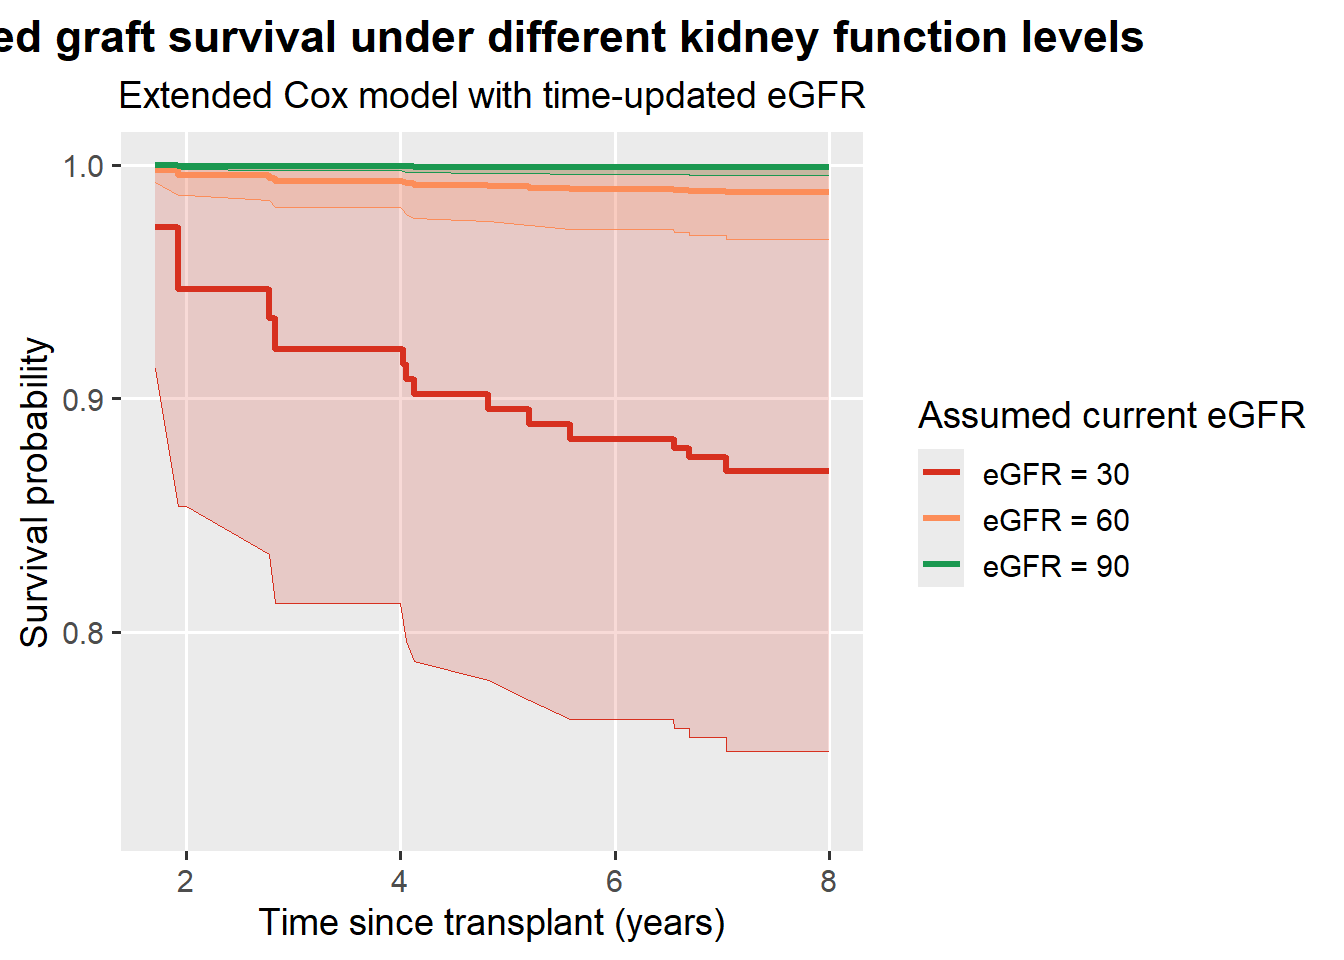
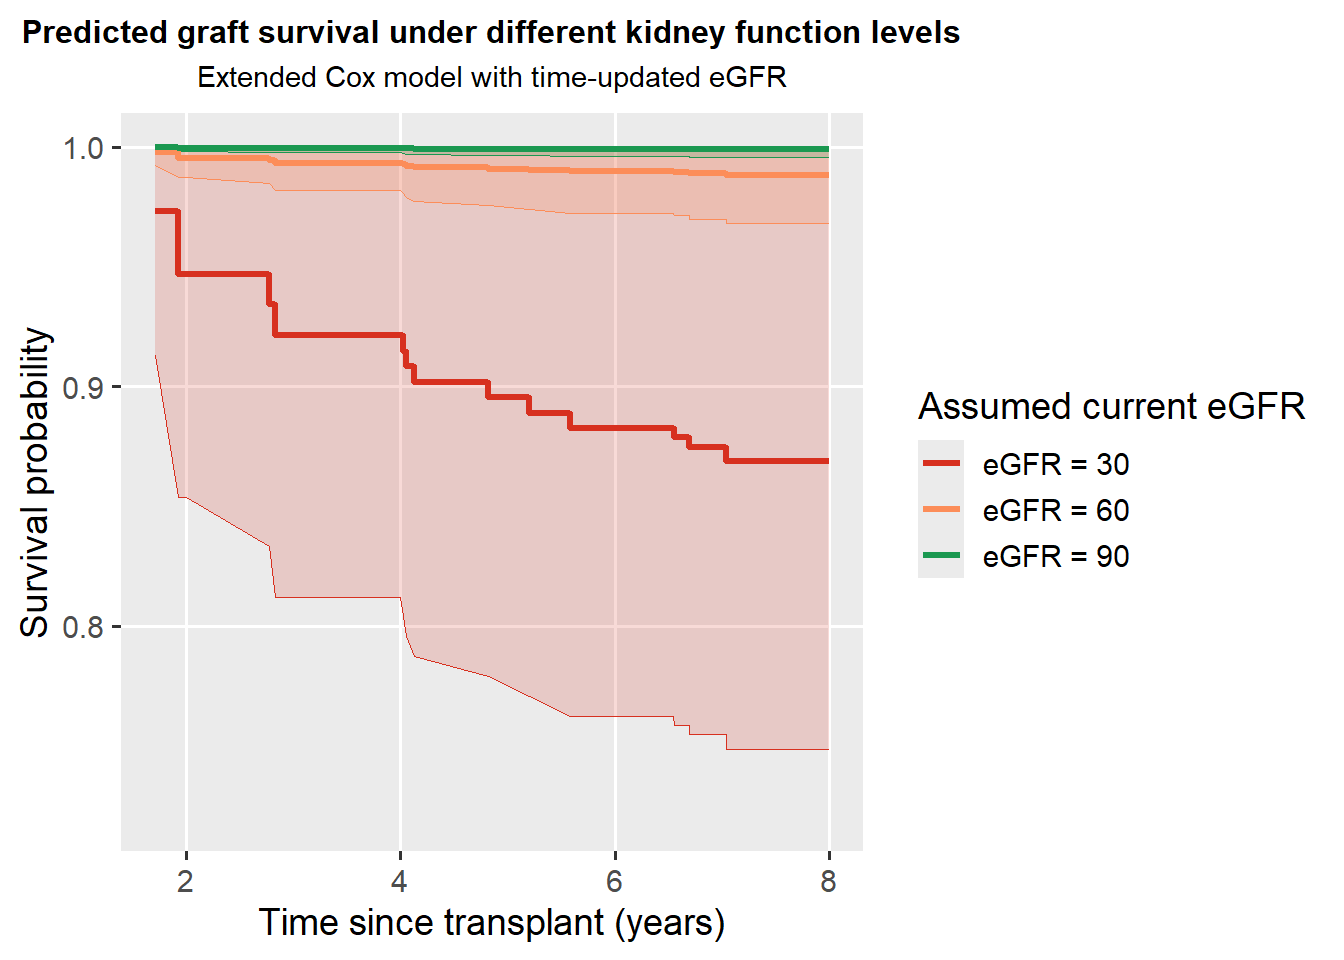
Complete Lecture 3

diff --git a/docs/lecture-03-non-ph-cox.html b/docs/lecture-03-non-ph-cox.html
@@ -1425,7 +1425,21 @@ Accounting for changes in kidney function over time substantially alters the int
 <span id="cb14-97"><a href="#cb14-97" aria-hidden="true" tabindex="-1"></a>    <span class="at">plot.subtitle =</span> <span class="fu">element_text</span>(<span class="at">hjust =</span> <span class="fl">0.5</span>),</span>
 <span id="cb14-98"><a href="#cb14-98" aria-hidden="true" tabindex="-1"></a>    <span class="at">legend.position =</span> <span class="st">"right"</span>,</span>
 <span id="cb14-99"><a href="#cb14-99" aria-hidden="true" tabindex="-1"></a>    <span class="at">panel.grid.minor =</span> <span class="fu">element_blank</span>()</span>
-<span id="cb14-100"><a href="#cb14-100" aria-hidden="true" tabindex="-1"></a>  )</span></code><button title="Copy to Clipboard" class="code-copy-button"><i class="bi"></i></button></pre></div>
+<span id="cb14-100"><a href="#cb14-100" aria-hidden="true" tabindex="-1"></a>  )<span class="sc">+</span> <span class="fu">theme</span>(</span>
+<span id="cb14-101"><a href="#cb14-101" aria-hidden="true" tabindex="-1"></a>    <span class="at">plot.title =</span> <span class="fu">element_text</span>(</span>
+<span id="cb14-102"><a href="#cb14-102" aria-hidden="true" tabindex="-1"></a>      <span class="at">face =</span> <span class="st">"bold"</span>,</span>
+<span id="cb14-103"><a href="#cb14-103" aria-hidden="true" tabindex="-1"></a>      <span class="at">size =</span> <span class="dv">12</span>,</span>
+<span id="cb14-104"><a href="#cb14-104" aria-hidden="true" tabindex="-1"></a>      <span class="at">hjust =</span> <span class="fl">0.5</span>,</span>
+<span id="cb14-105"><a href="#cb14-105" aria-hidden="true" tabindex="-1"></a>      <span class="at">margin =</span> <span class="fu">margin</span>(<span class="at">b =</span> <span class="dv">6</span>)   <span class="co"># space below title</span></span>
+<span id="cb14-106"><a href="#cb14-106" aria-hidden="true" tabindex="-1"></a>    ),</span>
+<span id="cb14-107"><a href="#cb14-107" aria-hidden="true" tabindex="-1"></a>    <span class="at">plot.subtitle =</span> <span class="fu">element_text</span>(</span>
+<span id="cb14-108"><a href="#cb14-108" aria-hidden="true" tabindex="-1"></a>      <span class="at">size =</span> <span class="dv">11</span>,</span>
+<span id="cb14-109"><a href="#cb14-109" aria-hidden="true" tabindex="-1"></a>      <span class="at">hjust =</span> <span class="fl">0.5</span>,</span>
+<span id="cb14-110"><a href="#cb14-110" aria-hidden="true" tabindex="-1"></a>      <span class="at">margin =</span> <span class="fu">margin</span>(<span class="at">b =</span> <span class="dv">8</span>)</span>
+<span id="cb14-111"><a href="#cb14-111" aria-hidden="true" tabindex="-1"></a>    ),</span>
+<span id="cb14-112"><a href="#cb14-112" aria-hidden="true" tabindex="-1"></a>    <span class="at">legend.position =</span> <span class="st">"right"</span>,</span>
+<span id="cb14-113"><a href="#cb14-113" aria-hidden="true" tabindex="-1"></a>    <span class="at">panel.grid.minor =</span> <span class="fu">element_blank</span>()</span>
+<span id="cb14-114"><a href="#cb14-114" aria-hidden="true" tabindex="-1"></a>  )</span></code><button title="Copy to Clipboard" class="code-copy-button"><i class="bi"></i></button></pre></div>
 </details>
 <div class="cell-output-display">
 <div>
@@ -1476,8 +1490,14 @@ Warning
 </div>
 <div class="callout-body-container callout-body">
 <p>The extended Cox model treats time-varying covariates as <strong>external</strong>.</p>
-<p>If the covariate is influenced by the underlying disease process (e.g.&nbsp;declining eGFR because the graft is failing), this assumption may be violated — motivating <strong>joint models</strong>.</p>
+<p>If the covariate is influenced by the underlying disease process (e.g.&nbsp;declining eGFR because the graft is failing), this assumption may be violated.</p>
 </div>
+</div>
+<div class="callout-question">
+<p><strong>Think about the following before moving on:</strong></p>
+<p>What if the decline in eGFR over time reflects underlying changes in other clinical factors, rather than acting as an isolated predictor?</p>
+<p>And those same variables may also affect the risk of graft failure.</p>
+<p>If a time-dependent covariate both <strong>predicts</strong> the event and is <strong>affected by</strong> the underlying disease process, is an extended Cox model still appropriate?</p>
 </div>
 
 
@@ -3013,54 +3033,84 @@ window.document.addEventListener("DOMContentLoaded", function (event) {
 <span id="cb15-1054"><a href="#cb15-1054" aria-hidden="true" tabindex="-1"></a><span class="in">    plot.subtitle = element_text(hjust = 0.5),</span></span>
 <span id="cb15-1055"><a href="#cb15-1055" aria-hidden="true" tabindex="-1"></a><span class="in">    legend.position = "right",</span></span>
 <span id="cb15-1056"><a href="#cb15-1056" aria-hidden="true" tabindex="-1"></a><span class="in">    panel.grid.minor = element_blank()</span></span>
-<span id="cb15-1057"><a href="#cb15-1057" aria-hidden="true" tabindex="-1"></a><span class="in">  )</span></span>
-<span id="cb15-1058"><a href="#cb15-1058" aria-hidden="true" tabindex="-1"></a></span>
-<span id="cb15-1059"><a href="#cb15-1059" aria-hidden="true" tabindex="-1"></a></span>
-<span id="cb15-1060"><a href="#cb15-1060" aria-hidden="true" tabindex="-1"></a><span class="in">```</span></span>
-<span id="cb15-1061"><a href="#cb15-1061" aria-hidden="true" tabindex="-1"></a></span>
-<span id="cb15-1062"><a href="#cb15-1062" aria-hidden="true" tabindex="-1"></a>::: {.callout-tip}</span>
-<span id="cb15-1063"><a href="#cb15-1063" aria-hidden="true" tabindex="-1"></a><span class="fu">### Interpretation of Predicted Survival by Current eGFR Level</span></span>
-<span id="cb15-1064"><a href="#cb15-1064" aria-hidden="true" tabindex="-1"></a></span>
-<span id="cb15-1065"><a href="#cb15-1065" aria-hidden="true" tabindex="-1"></a>The extended Cox model allows us to interpret graft survival **conditional on the current level of kidney function**, updated over time.</span>
-<span id="cb15-1066"><a href="#cb15-1066" aria-hidden="true" tabindex="-1"></a></span>
-<span id="cb15-1067"><a href="#cb15-1067" aria-hidden="true" tabindex="-1"></a>---</span>
-<span id="cb15-1068"><a href="#cb15-1068" aria-hidden="true" tabindex="-1"></a></span>
-<span id="cb15-1069"><a href="#cb15-1069" aria-hidden="true" tabindex="-1"></a>✅ **eGFR = 90 (green)**</span>
-<span id="cb15-1070"><a href="#cb15-1070" aria-hidden="true" tabindex="-1"></a></span>
-<span id="cb15-1071"><a href="#cb15-1071" aria-hidden="true" tabindex="-1"></a>Predicted graft survival is **very stable over time**.  </span>
-<span id="cb15-1072"><a href="#cb15-1072" aria-hidden="true" tabindex="-1"></a>The survival curve remains close to **1.0**, indicating that patients maintaining this level of kidney function have a **very low risk of graft failure** throughout follow-up.</span>
+<span id="cb15-1057"><a href="#cb15-1057" aria-hidden="true" tabindex="-1"></a><span class="in">  )+ theme(</span></span>
+<span id="cb15-1058"><a href="#cb15-1058" aria-hidden="true" tabindex="-1"></a><span class="in">    plot.title = element_text(</span></span>
+<span id="cb15-1059"><a href="#cb15-1059" aria-hidden="true" tabindex="-1"></a><span class="in">      face = "bold",</span></span>
+<span id="cb15-1060"><a href="#cb15-1060" aria-hidden="true" tabindex="-1"></a><span class="in">      size = 12,</span></span>
+<span id="cb15-1061"><a href="#cb15-1061" aria-hidden="true" tabindex="-1"></a><span class="in">      hjust = 0.5,</span></span>
+<span id="cb15-1062"><a href="#cb15-1062" aria-hidden="true" tabindex="-1"></a><span class="in">      margin = margin(b = 6)   # space below title</span></span>
+<span id="cb15-1063"><a href="#cb15-1063" aria-hidden="true" tabindex="-1"></a><span class="in">    ),</span></span>
+<span id="cb15-1064"><a href="#cb15-1064" aria-hidden="true" tabindex="-1"></a><span class="in">    plot.subtitle = element_text(</span></span>
+<span id="cb15-1065"><a href="#cb15-1065" aria-hidden="true" tabindex="-1"></a><span class="in">      size = 11,</span></span>
+<span id="cb15-1066"><a href="#cb15-1066" aria-hidden="true" tabindex="-1"></a><span class="in">      hjust = 0.5,</span></span>
+<span id="cb15-1067"><a href="#cb15-1067" aria-hidden="true" tabindex="-1"></a><span class="in">      margin = margin(b = 8)</span></span>
+<span id="cb15-1068"><a href="#cb15-1068" aria-hidden="true" tabindex="-1"></a><span class="in">    ),</span></span>
+<span id="cb15-1069"><a href="#cb15-1069" aria-hidden="true" tabindex="-1"></a><span class="in">    legend.position = "right",</span></span>
+<span id="cb15-1070"><a href="#cb15-1070" aria-hidden="true" tabindex="-1"></a><span class="in">    panel.grid.minor = element_blank()</span></span>
+<span id="cb15-1071"><a href="#cb15-1071" aria-hidden="true" tabindex="-1"></a><span class="in">  )</span></span>
+<span id="cb15-1072"><a href="#cb15-1072" aria-hidden="true" tabindex="-1"></a></span>
 <span id="cb15-1073"><a href="#cb15-1073" aria-hidden="true" tabindex="-1"></a></span>
-<span id="cb15-1074"><a href="#cb15-1074" aria-hidden="true" tabindex="-1"></a>---</span>
+<span id="cb15-1074"><a href="#cb15-1074" aria-hidden="true" tabindex="-1"></a><span class="in">```</span></span>
 <span id="cb15-1075"><a href="#cb15-1075" aria-hidden="true" tabindex="-1"></a></span>
-<span id="cb15-1076"><a href="#cb15-1076" aria-hidden="true" tabindex="-1"></a>✅ **eGFR = 60 (orange)**</span>
-<span id="cb15-1077"><a href="#cb15-1077" aria-hidden="true" tabindex="-1"></a></span>
-<span id="cb15-1078"><a href="#cb15-1078" aria-hidden="true" tabindex="-1"></a>Graft survival remains **high**, although slightly lower than at eGFR = 90.  </span>
-<span id="cb15-1079"><a href="#cb15-1079" aria-hidden="true" tabindex="-1"></a>The probability of graft survival stays above **95% over 8 years**, suggesting a **modest increase in risk**, but overall good long-term outcomes.</span>
+<span id="cb15-1076"><a href="#cb15-1076" aria-hidden="true" tabindex="-1"></a>::: {.callout-tip}</span>
+<span id="cb15-1077"><a href="#cb15-1077" aria-hidden="true" tabindex="-1"></a><span class="fu">### Interpretation of Predicted Survival by Current eGFR Level</span></span>
+<span id="cb15-1078"><a href="#cb15-1078" aria-hidden="true" tabindex="-1"></a></span>
+<span id="cb15-1079"><a href="#cb15-1079" aria-hidden="true" tabindex="-1"></a>The extended Cox model allows us to interpret graft survival **conditional on the current level of kidney function**, updated over time.</span>
 <span id="cb15-1080"><a href="#cb15-1080" aria-hidden="true" tabindex="-1"></a></span>
 <span id="cb15-1081"><a href="#cb15-1081" aria-hidden="true" tabindex="-1"></a>---</span>
 <span id="cb15-1082"><a href="#cb15-1082" aria-hidden="true" tabindex="-1"></a></span>
-<span id="cb15-1083"><a href="#cb15-1083" aria-hidden="true" tabindex="-1"></a>✅ **eGFR = 30 (red)**</span>
+<span id="cb15-1083"><a href="#cb15-1083" aria-hidden="true" tabindex="-1"></a>✅ **eGFR = 90 (green)**</span>
 <span id="cb15-1084"><a href="#cb15-1084" aria-hidden="true" tabindex="-1"></a></span>
-<span id="cb15-1085"><a href="#cb15-1085" aria-hidden="true" tabindex="-1"></a>Graft survival is **markedly reduced**.  </span>
-<span id="cb15-1086"><a href="#cb15-1086" aria-hidden="true" tabindex="-1"></a>The survival curve declines more steeply, showing a **pronounced increase in the risk of graft loss over time**.  </span>
-<span id="cb15-1087"><a href="#cb15-1087" aria-hidden="true" tabindex="-1"></a>This highlights low current eGFR as a **strong indicator of poor prognosis**.</span>
-<span id="cb15-1088"><a href="#cb15-1088" aria-hidden="true" tabindex="-1"></a></span>
-<span id="cb15-1089"><a href="#cb15-1089" aria-hidden="true" tabindex="-1"></a>---</span>
-<span id="cb15-1090"><a href="#cb15-1090" aria-hidden="true" tabindex="-1"></a></span>
-<span id="cb15-1091"><a href="#cb15-1091" aria-hidden="true" tabindex="-1"></a>**Overall interpretation:**  </span>
-<span id="cb15-1092"><a href="#cb15-1092" aria-hidden="true" tabindex="-1"></a>In the extended Cox model, **current eGFR is a powerful, time-updated predictor of graft survival**.  </span>
-<span id="cb15-1093"><a href="#cb15-1093" aria-hidden="true" tabindex="-1"></a>Lower eGFR values are associated with **substantially worse survival trajectories**, reinforcing the importance of modelling kidney function as a **time-varying covariate** rather than a baseline-only measure.</span>
-<span id="cb15-1094"><a href="#cb15-1094" aria-hidden="true" tabindex="-1"></a>:::</span>
-<span id="cb15-1095"><a href="#cb15-1095" aria-hidden="true" tabindex="-1"></a></span>
+<span id="cb15-1085"><a href="#cb15-1085" aria-hidden="true" tabindex="-1"></a>Predicted graft survival is **very stable over time**.  </span>
+<span id="cb15-1086"><a href="#cb15-1086" aria-hidden="true" tabindex="-1"></a>The survival curve remains close to **1.0**, indicating that patients maintaining this level of kidney function have a **very low risk of graft failure** throughout follow-up.</span>
+<span id="cb15-1087"><a href="#cb15-1087" aria-hidden="true" tabindex="-1"></a></span>
+<span id="cb15-1088"><a href="#cb15-1088" aria-hidden="true" tabindex="-1"></a>---</span>
+<span id="cb15-1089"><a href="#cb15-1089" aria-hidden="true" tabindex="-1"></a></span>
+<span id="cb15-1090"><a href="#cb15-1090" aria-hidden="true" tabindex="-1"></a>✅ **eGFR = 60 (orange)**</span>
+<span id="cb15-1091"><a href="#cb15-1091" aria-hidden="true" tabindex="-1"></a></span>
+<span id="cb15-1092"><a href="#cb15-1092" aria-hidden="true" tabindex="-1"></a>Graft survival remains **high**, although slightly lower than at eGFR = 90.  </span>
+<span id="cb15-1093"><a href="#cb15-1093" aria-hidden="true" tabindex="-1"></a>The probability of graft survival stays above **95% over 8 years**, suggesting a **modest increase in risk**, but overall good long-term outcomes.</span>
+<span id="cb15-1094"><a href="#cb15-1094" aria-hidden="true" tabindex="-1"></a></span>
+<span id="cb15-1095"><a href="#cb15-1095" aria-hidden="true" tabindex="-1"></a>---</span>
 <span id="cb15-1096"><a href="#cb15-1096" aria-hidden="true" tabindex="-1"></a></span>
-<span id="cb15-1097"><a href="#cb15-1097" aria-hidden="true" tabindex="-1"></a></span>
-<span id="cb15-1098"><a href="#cb15-1098" aria-hidden="true" tabindex="-1"></a>::: {.callout-warning}</span>
-<span id="cb15-1099"><a href="#cb15-1099" aria-hidden="true" tabindex="-1"></a>The extended Cox model treats time-varying covariates as **external**.</span>
-<span id="cb15-1100"><a href="#cb15-1100" aria-hidden="true" tabindex="-1"></a></span>
-<span id="cb15-1101"><a href="#cb15-1101" aria-hidden="true" tabindex="-1"></a>If the covariate is influenced by the underlying disease process</span>
-<span id="cb15-1102"><a href="#cb15-1102" aria-hidden="true" tabindex="-1"></a>(e.g. declining eGFR because the graft is failing),</span>
-<span id="cb15-1103"><a href="#cb15-1103" aria-hidden="true" tabindex="-1"></a>this assumption may be violated — motivating **joint models**.</span>
-<span id="cb15-1104"><a href="#cb15-1104" aria-hidden="true" tabindex="-1"></a>:::</span></code><button title="Copy to Clipboard" class="code-copy-button" data-in-quarto-modal=""><i class="bi"></i></button></pre></div>
+<span id="cb15-1097"><a href="#cb15-1097" aria-hidden="true" tabindex="-1"></a>✅ **eGFR = 30 (red)**</span>
+<span id="cb15-1098"><a href="#cb15-1098" aria-hidden="true" tabindex="-1"></a></span>
+<span id="cb15-1099"><a href="#cb15-1099" aria-hidden="true" tabindex="-1"></a>Graft survival is **markedly reduced**.  </span>
+<span id="cb15-1100"><a href="#cb15-1100" aria-hidden="true" tabindex="-1"></a>The survival curve declines more steeply, showing a **pronounced increase in the risk of graft loss over time**.  </span>
+<span id="cb15-1101"><a href="#cb15-1101" aria-hidden="true" tabindex="-1"></a>This highlights low current eGFR as a **strong indicator of poor prognosis**.</span>
+<span id="cb15-1102"><a href="#cb15-1102" aria-hidden="true" tabindex="-1"></a></span>
+<span id="cb15-1103"><a href="#cb15-1103" aria-hidden="true" tabindex="-1"></a>---</span>
+<span id="cb15-1104"><a href="#cb15-1104" aria-hidden="true" tabindex="-1"></a></span>
+<span id="cb15-1105"><a href="#cb15-1105" aria-hidden="true" tabindex="-1"></a>**Overall interpretation:**  </span>
+<span id="cb15-1106"><a href="#cb15-1106" aria-hidden="true" tabindex="-1"></a>In the extended Cox model, **current eGFR is a powerful, time-updated predictor of graft survival**.  </span>
+<span id="cb15-1107"><a href="#cb15-1107" aria-hidden="true" tabindex="-1"></a>Lower eGFR values are associated with **substantially worse survival trajectories**, reinforcing the importance of modelling kidney function as a **time-varying covariate** rather than a baseline-only measure.</span>
+<span id="cb15-1108"><a href="#cb15-1108" aria-hidden="true" tabindex="-1"></a>:::</span>
+<span id="cb15-1109"><a href="#cb15-1109" aria-hidden="true" tabindex="-1"></a></span>
+<span id="cb15-1110"><a href="#cb15-1110" aria-hidden="true" tabindex="-1"></a></span>
+<span id="cb15-1111"><a href="#cb15-1111" aria-hidden="true" tabindex="-1"></a></span>
+<span id="cb15-1112"><a href="#cb15-1112" aria-hidden="true" tabindex="-1"></a>::: {.callout-warning}</span>
+<span id="cb15-1113"><a href="#cb15-1113" aria-hidden="true" tabindex="-1"></a>The extended Cox model treats time-varying covariates as **external**.</span>
+<span id="cb15-1114"><a href="#cb15-1114" aria-hidden="true" tabindex="-1"></a></span>
+<span id="cb15-1115"><a href="#cb15-1115" aria-hidden="true" tabindex="-1"></a>If the covariate is influenced by the underlying disease process</span>
+<span id="cb15-1116"><a href="#cb15-1116" aria-hidden="true" tabindex="-1"></a>(e.g. declining eGFR because the graft is failing),</span>
+<span id="cb15-1117"><a href="#cb15-1117" aria-hidden="true" tabindex="-1"></a>this assumption may be violated.</span>
+<span id="cb15-1118"><a href="#cb15-1118" aria-hidden="true" tabindex="-1"></a>:::</span>
+<span id="cb15-1119"><a href="#cb15-1119" aria-hidden="true" tabindex="-1"></a></span>
+<span id="cb15-1120"><a href="#cb15-1120" aria-hidden="true" tabindex="-1"></a></span>
+<span id="cb15-1121"><a href="#cb15-1121" aria-hidden="true" tabindex="-1"></a></span>
+<span id="cb15-1122"><a href="#cb15-1122" aria-hidden="true" tabindex="-1"></a></span>
+<span id="cb15-1123"><a href="#cb15-1123" aria-hidden="true" tabindex="-1"></a>::: {.callout-question}</span>
+<span id="cb15-1124"><a href="#cb15-1124" aria-hidden="true" tabindex="-1"></a></span>
+<span id="cb15-1125"><a href="#cb15-1125" aria-hidden="true" tabindex="-1"></a>**Think about the following before moving on:**</span>
+<span id="cb15-1126"><a href="#cb15-1126" aria-hidden="true" tabindex="-1"></a></span>
+<span id="cb15-1127"><a href="#cb15-1127" aria-hidden="true" tabindex="-1"></a>What if the decline in eGFR over time reflects underlying changes in other clinical factors, rather than acting as an isolated predictor?</span>
+<span id="cb15-1128"><a href="#cb15-1128" aria-hidden="true" tabindex="-1"></a></span>
+<span id="cb15-1129"><a href="#cb15-1129" aria-hidden="true" tabindex="-1"></a>And those same variables may also affect the risk of graft failure.</span>
+<span id="cb15-1130"><a href="#cb15-1130" aria-hidden="true" tabindex="-1"></a></span>
+<span id="cb15-1131"><a href="#cb15-1131" aria-hidden="true" tabindex="-1"></a></span>
+<span id="cb15-1132"><a href="#cb15-1132" aria-hidden="true" tabindex="-1"></a>If a time-dependent covariate both **predicts** the event and is **affected by** the underlying disease process, is an extended Cox model still appropriate?</span>
+<span id="cb15-1133"><a href="#cb15-1133" aria-hidden="true" tabindex="-1"></a></span>
+<span id="cb15-1134"><a href="#cb15-1134" aria-hidden="true" tabindex="-1"></a>:::</span></code><button title="Copy to Clipboard" class="code-copy-button" data-in-quarto-modal=""><i class="bi"></i></button></pre></div>
 </div></div></div></div></div>
 </div> <!-- /content -->
 

diff --git a/docs/index.html b/docs/index.html
@@ -203,7 +203,11 @@ pre > code.sourceCode > span > a:first-child::before { text-decoration: underlin
 </header>
 
 
-<p>Welcome! This workshop contains 5 lectures on survival analysis.</p>
+<p>Welcome!</p>
+<p>This workshop covers a series of lectures on <strong>survival analysis</strong>.</p>
+<p>We begin with an introduction to <strong>survival data</strong> and basic survival analysis, followed by the <strong>Cox proportional hazards model</strong>. We then explore <strong>extensions of the Cox model</strong> when the proportional hazards assumption is violated, as well as <strong>joint models</strong> and <strong>nonlinear Cox models</strong>.</p>
+<p>All lectures are prepared by <strong>Dr Farzaneh Boroumand</strong> (Farzaneh.Boroumand@sydney.edu.au).</p>
+<p>The datasets used in this workshop are <strong>simulated datasets</strong>, created solely for <strong>educational purposes</strong>.</p>
 <div class="callout callout-style-default callout-note callout-titled">
 <div class="callout-header d-flex align-content-center">
 <div class="callout-icon-container">
@@ -707,18 +711,30 @@ window.document.addEventListener("DOMContentLoaded", function (event) {
 <span id="cb1-2"><a href="#cb1-2" aria-hidden="true" tabindex="-1"></a><span class="an">title:</span><span class="co"> "Advanced Survival Concepts and Analysis"</span></span>
 <span id="cb1-3"><a href="#cb1-3" aria-hidden="true" tabindex="-1"></a><span class="co">---</span></span>
 <span id="cb1-4"><a href="#cb1-4" aria-hidden="true" tabindex="-1"></a></span>
-<span id="cb1-5"><a href="#cb1-5" aria-hidden="true" tabindex="-1"></a>Welcome! This workshop contains 5 lectures on survival analysis.</span>
+<span id="cb1-5"><a href="#cb1-5" aria-hidden="true" tabindex="-1"></a></span>
 <span id="cb1-6"><a href="#cb1-6" aria-hidden="true" tabindex="-1"></a></span>
-<span id="cb1-7"><a href="#cb1-7" aria-hidden="true" tabindex="-1"></a>::: callout-note</span>
-<span id="cb1-8"><a href="#cb1-8" aria-hidden="true" tabindex="-1"></a><span class="fu">### How to use this website</span></span>
-<span id="cb1-9"><a href="#cb1-9" aria-hidden="true" tabindex="-1"></a></span>
-<span id="cb1-10"><a href="#cb1-10" aria-hidden="true" tabindex="-1"></a><span class="ss">-   </span>Click **Lecture 1–5** in the sidebar.</span>
-<span id="cb1-11"><a href="#cb1-11" aria-hidden="true" tabindex="-1"></a><span class="ss">-   </span>Each lecture contains:</span>
-<span id="cb1-12"><a href="#cb1-12" aria-hidden="true" tabindex="-1"></a><span class="ss">    -   </span>explanation</span>
-<span id="cb1-13"><a href="#cb1-13" aria-hidden="true" tabindex="-1"></a><span class="ss">    -   </span>R code (collapsible)</span>
-<span id="cb1-14"><a href="#cb1-14" aria-hidden="true" tabindex="-1"></a><span class="ss">    -   </span>outputs</span>
-<span id="cb1-15"><a href="#cb1-15" aria-hidden="true" tabindex="-1"></a><span class="ss">    -   </span>interpretation</span>
-<span id="cb1-16"><a href="#cb1-16" aria-hidden="true" tabindex="-1"></a>:::</span></code><button title="Copy to Clipboard" class="code-copy-button" data-in-quarto-modal=""><i class="bi"></i></button></pre></div>
+<span id="cb1-7"><a href="#cb1-7" aria-hidden="true" tabindex="-1"></a>Welcome!</span>
+<span id="cb1-8"><a href="#cb1-8" aria-hidden="true" tabindex="-1"></a></span>
+<span id="cb1-9"><a href="#cb1-9" aria-hidden="true" tabindex="-1"></a>This workshop covers a series of lectures on **survival analysis**.</span>
+<span id="cb1-10"><a href="#cb1-10" aria-hidden="true" tabindex="-1"></a></span>
+<span id="cb1-11"><a href="#cb1-11" aria-hidden="true" tabindex="-1"></a>We begin with an introduction to **survival data** and basic survival analysis, followed by the **Cox proportional hazards model**. We then explore **extensions of the Cox model** when the proportional hazards assumption is violated, as well as **joint models** and **nonlinear Cox models**.</span>
+<span id="cb1-12"><a href="#cb1-12" aria-hidden="true" tabindex="-1"></a></span>
+<span id="cb1-13"><a href="#cb1-13" aria-hidden="true" tabindex="-1"></a>All lectures are prepared by **Dr Farzaneh Boroumand** (Farzaneh.Boroumand@sydney.edu.au).</span>
+<span id="cb1-14"><a href="#cb1-14" aria-hidden="true" tabindex="-1"></a></span>
+<span id="cb1-15"><a href="#cb1-15" aria-hidden="true" tabindex="-1"></a>The datasets used in this workshop are **simulated datasets**, created solely for **educational purposes**.</span>
+<span id="cb1-16"><a href="#cb1-16" aria-hidden="true" tabindex="-1"></a></span>
+<span id="cb1-17"><a href="#cb1-17" aria-hidden="true" tabindex="-1"></a></span>
+<span id="cb1-18"><a href="#cb1-18" aria-hidden="true" tabindex="-1"></a></span>
+<span id="cb1-19"><a href="#cb1-19" aria-hidden="true" tabindex="-1"></a>::: callout-note</span>
+<span id="cb1-20"><a href="#cb1-20" aria-hidden="true" tabindex="-1"></a><span class="fu">### How to use this website</span></span>
+<span id="cb1-21"><a href="#cb1-21" aria-hidden="true" tabindex="-1"></a></span>
+<span id="cb1-22"><a href="#cb1-22" aria-hidden="true" tabindex="-1"></a><span class="ss">-   </span>Click **Lecture 1–5** in the sidebar.</span>
+<span id="cb1-23"><a href="#cb1-23" aria-hidden="true" tabindex="-1"></a><span class="ss">-   </span>Each lecture contains:</span>
+<span id="cb1-24"><a href="#cb1-24" aria-hidden="true" tabindex="-1"></a><span class="ss">    -   </span>explanation</span>
+<span id="cb1-25"><a href="#cb1-25" aria-hidden="true" tabindex="-1"></a><span class="ss">    -   </span>R code (collapsible)</span>
+<span id="cb1-26"><a href="#cb1-26" aria-hidden="true" tabindex="-1"></a><span class="ss">    -   </span>outputs</span>
+<span id="cb1-27"><a href="#cb1-27" aria-hidden="true" tabindex="-1"></a><span class="ss">    -   </span>interpretation</span>
+<span id="cb1-28"><a href="#cb1-28" aria-hidden="true" tabindex="-1"></a>:::</span></code><button title="Copy to Clipboard" class="code-copy-button" data-in-quarto-modal=""><i class="bi"></i></button></pre></div>
 </div></div></div></div></div>
 </div> <!-- /content -->
 
